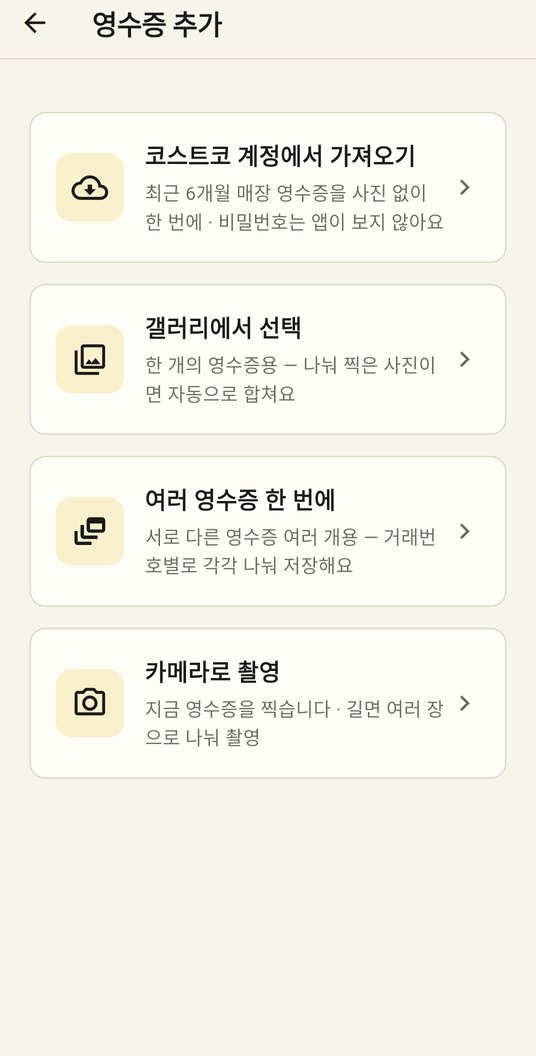
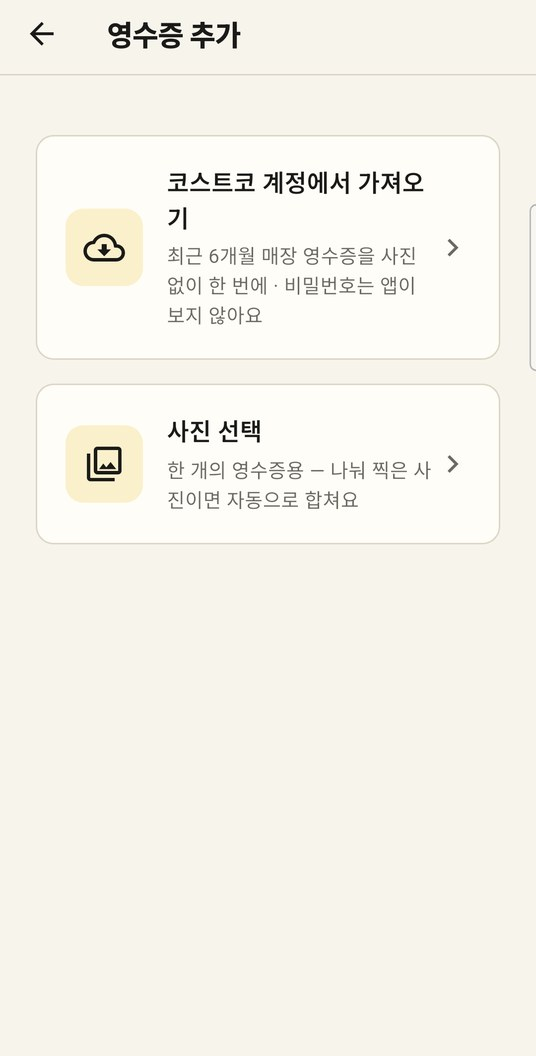
설명서를 카드 2개 화면과 아이폰 차이로 갱신한다
안드로이드 1.0.50·iOS 1.0.47 이 모두 출시돼 두 스토어가 같은 화면이 됐다.

diff --git a/manual/index.html b/manual/index.html
@@ -187,9 +187,12 @@ p{margin:0}
       <p class="where">앱을 처음 열면 나와요.</p>
       <ul>
         <li><b>Google로 계속하기</b>를 누르고 계정을 고르면 끝이에요. 따로 회원가입은 없어요.</li>
+        <li><b>아이폰</b>에는 <b>Apple로 계속하기</b>도 있어요. Face ID로 바로 시작하고, "이메일 가리기"를 고르면 실제 이메일 대신 Apple이 만든 주소가 쓰여요.</li>
         <li>코코세이버가 받는 것은 이름·이메일·프로필 사진뿐이에요. 코스트코 회원 정보는 받지 않아요.</li>
-        <li>폰을 바꿔도 같은 Google 계정으로 로그인하면 영수증이 그대로 있어요.</li>
+        <li>폰을 바꿔도 같은 계정으로 로그인하면 영수증이 그대로 있어요.</li>
       </ul>
+      <p class="note">안드로이드 앱에는 아직 Apple 로그인이 없어요. 나중에 안드로이드 폰으로 옮길 수도 있다면 아이폰에서도 Google로 시작하세요.</p>
+      <p class="tip"><b>로그인하면 권한을 물어요</b> — 먼저 <b>알림 허용</b>이에요. 할인 알림을 받으려면 허용해 주세요. 아이폰은 이어서 <b>앱 추적 허용</b> 창이 떠요. 광고를 맞춤으로 보여 줄 때만 쓰고, 허용하지 않아도 모든 기능을 그대로 쓸 수 있어요.</p>
     </div>
   </article>
 
@@ -220,16 +223,14 @@ p{margin:0}
   <header><span class="n">2</span><h2 id="c2">영수증 넣기</h2><p>영수증이 있어야 할인을 찾아 드려요</p></header>
 
   <article class="screen" id="s-add">
-    <figure class="shot"><img width="536" height="1056" src="img/04_add_receipt.jpg" alt="영수증 추가 화면. 네 가지 방법이 카드로 나열됨" loading="lazy"><figcaption>영수증 추가</figcaption></figure>
+    <figure class="shot"><img width="536" height="1056" src="img/04_add_receipt.jpg" alt="영수증 추가 화면. 코스트코 계정에서 가져오기와 사진 선택 두 가지 방법" loading="lazy"><figcaption>영수증 추가</figcaption></figure>
     <div class="body">
       <div class="code">200201</div>
       <h3>영수증 추가</h3>
       <p class="where">화면 아래 가운데 노란 <b>+</b> 버튼을 누르면 나와요.</p>
       <ul>
         <li><b>코스트코 계정에서 가져오기</b> — 최근 6개월 매장 영수증을 사진 없이 한 번에 넣어요. 처음이라면 이걸 먼저 하세요.</li>
-        <li><b>갤러리에서 선택</b> — 영수증 한 장을 찍은 사진을 골라요. 길어서 여러 장으로 나눠 찍었다면 전부 고르세요. 같은 영수증인지 앱이 확인하고 합쳐요.</li>
-        <li><b>여러 영수증 한 번에</b> — 서로 다른 영수증 사진을 한꺼번에 골라요. 거래번호별로 나눠 각각 저장해요.</li>
-        <li><b>카메라로 촬영</b> — 지금 바로 찍어요. 긴 영수증은 위에서 아래로 나눠 찍으면 돼요.</li>
+        <li><b>사진 선택</b> — 영수증 한 장을 찍은 사진을 골라요. 길어서 여러 장으로 나눠 찍었다면 전부 고르세요. 같은 영수증인지 앱이 확인하고 합쳐요. 서로 다른 영수증이 섞였으면 각각 저장할지 물어봐요.</li>
       </ul>
       <p class="tip"><b>어느 걸 쓸까요?</b> 지난 영수증은 가져오기, 오늘 산 영수증은 사진이에요. 코스트코 사이트에는 구매 다음 날부터 영수증이 올라와요.</p>
     </div>
@@ -267,7 +268,7 @@ p{margin:0}
     <div class="body">
       <div class="code">200203</div>
       <h3>사진으로 등록</h3>
-      <p class="where">영수증 추가 › <b>갤러리에서 선택</b> 또는 <b>카메라로 촬영</b>.</p>
+      <p class="where">영수증 추가 › <b>사진 선택</b>.</p>
       <ul>
         <li>긴 영수증은 나눠 찍은 사진을 <b>전부</b> 고르세요. 사진 순서는 상관없어요. 겹쳐 찍힌 부분은 한 번만 셉니다.</li>
         <li>글자 인식은 <b>폰 안에서</b> 해요. 사진이 인식을 위해 밖으로 나가지 않아요.</li>
@@ -291,6 +292,8 @@ p{margin:0}
         <li><b>저장하기</b>를 누르면 품목 수와 합계를 한 번 더 보여줘요. 합계가 영수증과 다르거나 빠진 품목이 있어 보이면 경고가 나오고 버튼이 <b>그래도 저장</b>으로 바뀌어요.</li>
         <li>인식이 많이 틀렸다면 <b>인식 오류 제보</b>로 알려 주세요. 회원번호·승인번호는 지우고, 카드 번호는 끝 4자리만 남겨서 보내요.</li>
         <li>같은 거래번호의 영수증이 이미 있으면 덮어쓸지 물어봐요.</li>
+        <li><b>한 사진에 영수증이 두 장</b> 찍혀 있으면 저장 버튼이 잠기고 "영수증 한 장씩 따로 찍어서 올려주세요"라고 안내해요. 두 영수증이 섞여 잘못 저장되는 것을 막아요.</li>
+        <li>품목명은 사진에서 읽은 글자가 뭉개졌을 때 다른 회원들이 같은 상품번호로 읽은 이름으로 <b>자동으로 바로잡혀요</b>. 상품번호와 금액은 사진에서 읽은 그대로예요.</li>
       </ul>
     </div>
     <ol class="strip" style="--cols:4">
@@ -441,13 +444,14 @@ p{margin:0}
       <h3>설정</h3>
       <p class="where">아래 탭의 <b>설정</b>.</p>
       <ul>
-        <li><b>계정</b> — 로그인한 Google 계정과 로그아웃.</li>
+        <li><b>계정</b> — 로그인한 계정(Google 또는 Apple)과 로그아웃.</li>
         <li><b>절약 리포트</b> · <b>고객센터</b> · <b>사용법 다시 보기</b> — 각각 구매 분석, 문의, 첫 안내로 가요.</li>
         <li><b>사용 설명서</b> — 이 설명서를 브라우저로 다시 열어요. 공지 카드를 닫았어도 여기서 볼 수 있어요.</li>
         <li><b>할인 감지 알림</b> — 끄면 가격이 내려가도 알림을 보내지 않아요.</li>
         <li><b>알림 끈 상품</b> — 상품별로 끈 알림을 모아 보고 다시 켤 수 있어요.</li>
         <li><b>매장 도착 알림</b> — 켜면 코스트코 매장 근처에 있을 때 확인할 품목을 알려 줘요. 위치 권한이 필요해요.</li>
         <li><b>앱 정보</b>에서 버전을 확인하고, 맨 아래 <b>계정 삭제</b>로 영수증과 계정을 모두 지울 수 있어요. 되돌릴 수 없어서 두 번 확인해요.</li>
+        <li>Apple로 로그인한 계정이면 삭제할 때 <b>Apple 연결도 함께 끊도록</b> Apple 인증 창이 한 번 더 떠요. 건너뛰어도 계정과 데이터는 지워지고, Apple 연결은 Apple 계정 설정에서 직접 끊을 수 있어요.</li>
       </ul>
       <figure class="shot" style="max-width:220px"><img width="536" height="1056" src="img/14b_settings_more.jpg" alt="설정 화면 아래쪽. 알림 끈 상품, 매장 도착 알림, 버전, 계정 삭제" loading="lazy"><figcaption>설정 아래쪽</figcaption></figure>
     </div>
@@ -488,7 +492,7 @@ p{margin:0}
       <ul>
         <li>새 공지는 앱을 열 때 <b>팝업으로 한 번</b> 보여 드려요. 닫은 뒤에도 기간 동안 홈 위쪽에 카드로 남아요.</li>
         <li>다 읽은 공지 카드는 오른쪽 <b>X</b>로 닫을 수 있어요.</li>
-        <li>꼭 필요한 업데이트가 있으면 <b>업데이트 창</b>이 떠요. Play 스토어에서 업데이트해야 계속 쓸 수 있어요.</li>
+        <li>꼭 필요한 업데이트가 있으면 <b>업데이트 창</b>이 떠요. <b>스토어에서 업데이트</b>를 누르면 안드로이드는 Play 스토어, 아이폰은 App Store가 열려요. 업데이트해야 계속 쓸 수 있어요.</li>
       </ul>
     </div>
   </article>
@@ -497,7 +501,7 @@ p{margin:0}
 <footer class="foot">
   <p>코코세이버는 코스트코 코리아와 제휴 관계가 없는 독립 앱입니다. 'COSTCO'는 해당 회사의 상표이며, 환불 가능 여부와 조건은 매장 정책을 따릅니다.</p>
   <p><a href="../privacy.html">개인정보 처리방침</a> · 문의는 앱의 설정 › 고객센터로 보내 주세요.</p>
-  <p>화면은 2026년 9월(앱 1.0.40~1.0.46) 기준입니다. 이름·이메일·카드 번호, 광고, 코스트코 사이트 로고는 가렸어요.</p>
+  <p>화면은 2026년 9월 안드로이드 앱(1.0.40~1.0.47) 기준입니다. 아이폰도 화면 구성은 같고, 다른 점은 본문에 <b>아이폰</b>으로 따로 적었어요. 이름·이메일·카드 번호, 광고, 코스트코 사이트 로고는 가렸어요.</p>
 </footer>
 
 </div>
